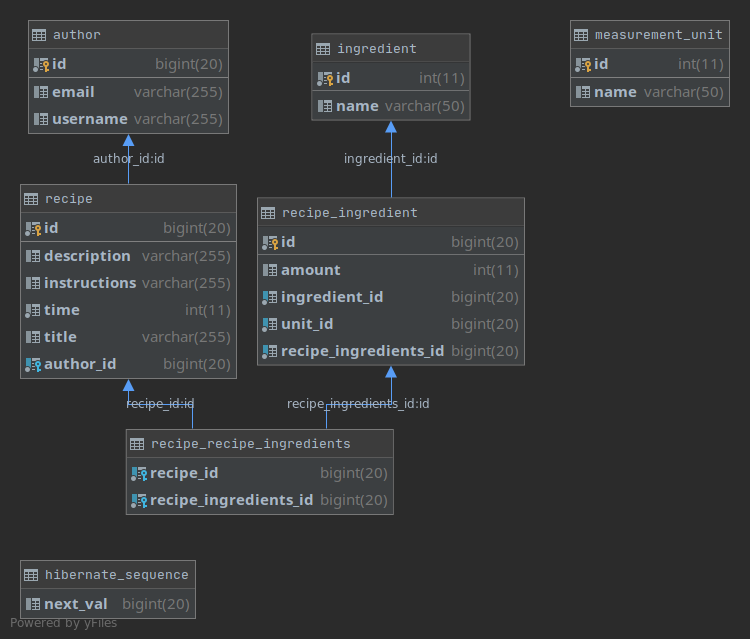
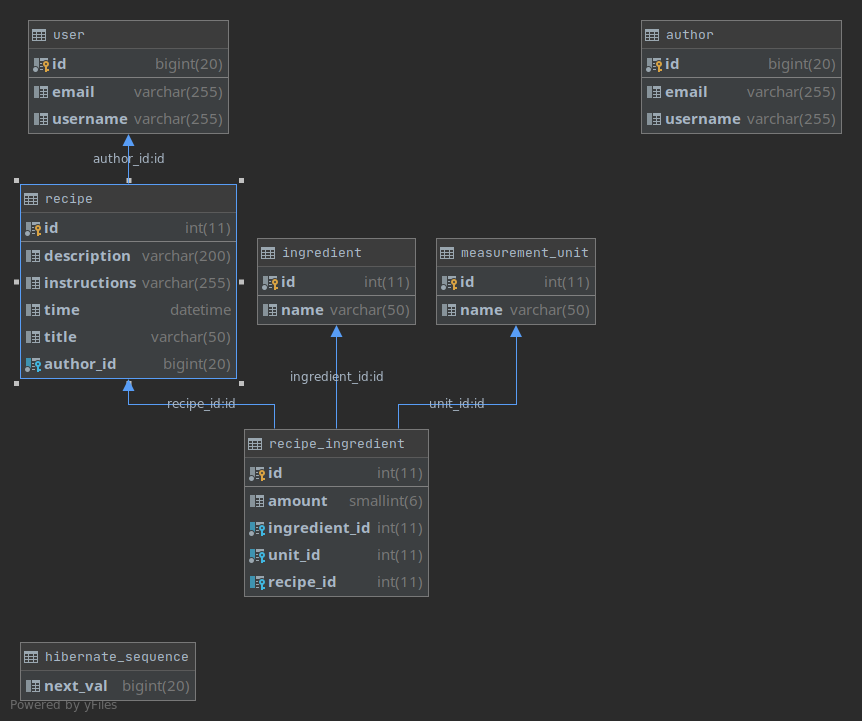
Update readme and db schema. Implement todos

diff --git a/src/main/kotlin/com/recipeapp/recipeserver/service/RecipeServiceImpl.kt b/src/main/kotlin/com/recipeapp/recipeserver/service/RecipeServiceImpl.kt
@@ -22,7 +22,7 @@ class RecipeServiceImpl : RecipeService {
     private lateinit var unitRepository: UnitRepository
 
     @Autowired
-    private lateinit var authorRepository: AuthorRepository
+    private lateinit var userRepository: UserRepository
 
 
     override fun getAllRecipes(): Set<Recipe> {
@@ -34,7 +34,7 @@ class RecipeServiceImpl : RecipeService {
     }
 
     override fun addRecipe(recipe: Recipe): Recipe {
-        authorRepository.save(recipe.author);
+        userRepository.save(recipe.author)
         for(recipeIngredient in recipe.recipeIngredients){
             ingredientRepository.save(recipeIngredient.ingredient)
             unitRepository.save(recipeIngredient.unit)
@@ -44,7 +44,12 @@ class RecipeServiceImpl : RecipeService {
         return recipeRepository.save(recipe)
     }
 
-    override fun changeRecipe(recipe: Recipe): Recipe {
-        TODO("Not yet implemented")
+    override fun changeRecipe(recipe: Recipe): Recipe? {
+        val storedRecipe = recipeRepository.findById(recipe.id)
+        return if (storedRecipe.isPresent) {
+            recipeRepository.save(storedRecipe.get())
+        } else {
+            null
+        }
     }
 }

diff --git a/src/main/kotlin/com/recipeapp/recipeserver/controller/RecipeController.kt b/src/main/kotlin/com/recipeapp/recipeserver/controller/RecipeController.kt
@@ -37,9 +37,17 @@ class RecipeController(
 
     @PostMapping
     fun postRecipe(@RequestBody recipe: Recipe): ResponseEntity<Recipe> {
-        val recipe = recipeService.addRecipe(recipe)
+        val addedRecipe = recipeService.addRecipe(recipe)
         val location: URI = ServletUriComponentsBuilder.fromCurrentRequest().path("/{id}")
-                .buildAndExpand(recipe.id).toUri()
+                .buildAndExpand(addedRecipe.id).toUri()
+        return ResponseEntity.created(location).build()
+    }
+
+    @PutMapping
+    fun updateRecipe(@RequestBody recipe: Recipe): ResponseEntity<Recipe> {
+        val changedRecipe = recipeService.changeRecipe(recipe) ?: return ResponseEntity.notFound().build()
+        val location: URI = ServletUriComponentsBuilder.fromCurrentRequest().path("/{id}")
+                .buildAndExpand(changedRecipe.id).toUri()
         return ResponseEntity.created(location).build()
     }
 }

diff --git a/src/test/kotlin/com/recipeapp/recipeserver/service/RecipeServiceTests.kt b/src/test/kotlin/com/recipeapp/recipeserver/service/RecipeServiceTests.kt
@@ -1,7 +1,6 @@
 package com.recipeapp.recipeserver.service
 
 import com.recipeapp.recipeserver.model.*
-import com.recipeapp.recipeserver.service.RecipeService
 import org.assertj.core.api.Assertions.assertThat
 import org.junit.jupiter.api.Test
 import org.junit.jupiter.api.extension.ExtendWith
@@ -21,7 +20,7 @@ class RecipeServiceTests(@Autowired val recipeService: RecipeService) {
     fun `add and retrieve recipes`() {
         val p = Recipe(1, "desc", "title", "wesd", setOf(
                 RecipeIngredient(1, Ingredient(1, "meat"), MeasurementUnit(1, "pieces"), 20)),
-        Date.from(now()), Author(1, "me", "me@email.com"))
+        Date.from(now()), User(1, "me", "me@email.com"))
         assertThat(recipeService.getAllRecipes()).hasSize(0)
         recipeService.addRecipe(p)
         assertThat(recipeService.getAllRecipes()).hasSize(1)

diff --git a/src/main/kotlin/com/recipeapp/recipeserver/repository/UserRepository.kt b/src/main/kotlin/com/recipeapp/recipeserver/repository/UserRepository.kt
@@ -1,7 +1,6 @@
 package com.recipeapp.recipeserver.repository
 
-import com.recipeapp.recipeserver.model.Author
+import com.recipeapp.recipeserver.model.User
 import org.springframework.data.jpa.repository.JpaRepository
 
-interface AuthorRepository: JpaRepository<Author, Int> {
-}
+interface UserRepository: JpaRepository<User, Int>

diff --git a/src/main/kotlin/com/recipeapp/recipeserver/service/RecipeService.kt b/src/main/kotlin/com/recipeapp/recipeserver/service/RecipeService.kt
@@ -7,5 +7,5 @@ interface RecipeService {
     fun getAllRecipes(): Set<Recipe>
     fun getRecipeById(id: Int): Optional<Recipe>
     fun addRecipe(recipe: Recipe): Recipe
-    fun changeRecipe(recipe: Recipe): Recipe
+    fun changeRecipe(recipe: Recipe): Recipe?
 }

diff --git a/src/main/kotlin/com/recipeapp/recipeserver/model/Recipe.kt b/src/main/kotlin/com/recipeapp/recipeserver/model/Recipe.kt
@@ -31,4 +31,4 @@ class Recipe (
 
         @ManyToOne(cascade = [CascadeType.ALL])
         @JoinColumn(nullable = false, foreignKey = ForeignKey(name = "FK_recipes_author"))
-        var author: Author)
+        var author: User)

diff --git a/src/main/kotlin/com/recipeapp/recipeserver/model/User.kt b/src/main/kotlin/com/recipeapp/recipeserver/model/User.kt
@@ -6,7 +6,7 @@ import javax.persistence.GeneratedValue
 import javax.persistence.Id
 
 @Entity
-class Author (
+class User (
         @Id
         @GeneratedValue
         @Column

diff --git a/README.md b/README.md
@@ -2,21 +2,21 @@
 This is a personal project created for learning purposes. Here I 
 build a Spring Boot Recipe application using Kotlin and Gradle. The 
 database used is MariaDB. Other notable technologies: 
-- Hibernate
-- MS Azure deployment (not yet done)
-- Liquibase (not yet done) 
-- Trello Board for tracking progress (https://trello.com/b/z2fm1Jey/recip3-app)
-- TravisCI (not yet done)
-- SonarCloud (https://sonarcloud.io/dashboard?id=maxr96_Recipy-App-Server)
-- and more soon...
+- [x] Hibernate
+- [ ] MS Azure deployment (not yet done)
+- [ ] Liquibase (not yet done) 
+- [x] Trello Board for tracking progress (https://trello.com/b/z2fm1Jey/recip3-app)
+- [ ] TravisCI (not yet done)
+- [x] SonarCloud (https://sonarcloud.io/dashboard?id=maxr96_Recipy-App-Server)
+- [ ] and more soon...
 
 #Main features of the API
-   - Upload and store recipes
-   - Get and extend possible measurement units
-   - Retrieve list of available ingredients
-   - Search for recipes by ingredients (not yet done)
-   - Login the user (not yet done)
-   - and more...
+   - [x] Upload and store recipes
+   - [x] Get and extend possible measurement units
+   - [x] Retrieve list of available ingredients
+   - [ ] Search for recipes by ingredients (not yet done)
+   - [ ] Login the user (not yet done)
+   - [ ] and more...
 ## Database Model
 The main entities used for the database model:
 - MeasurementUnit - stores the name of different units, e.g. gram, spoon.
